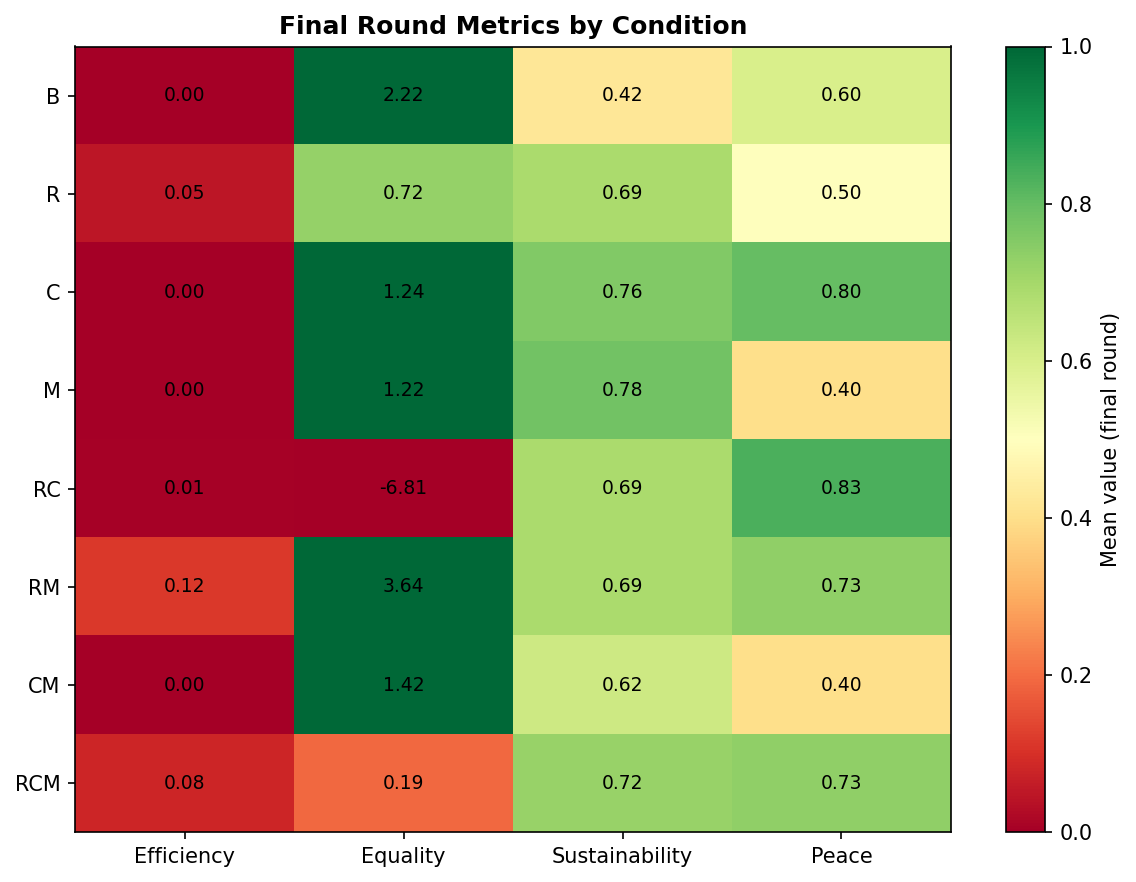
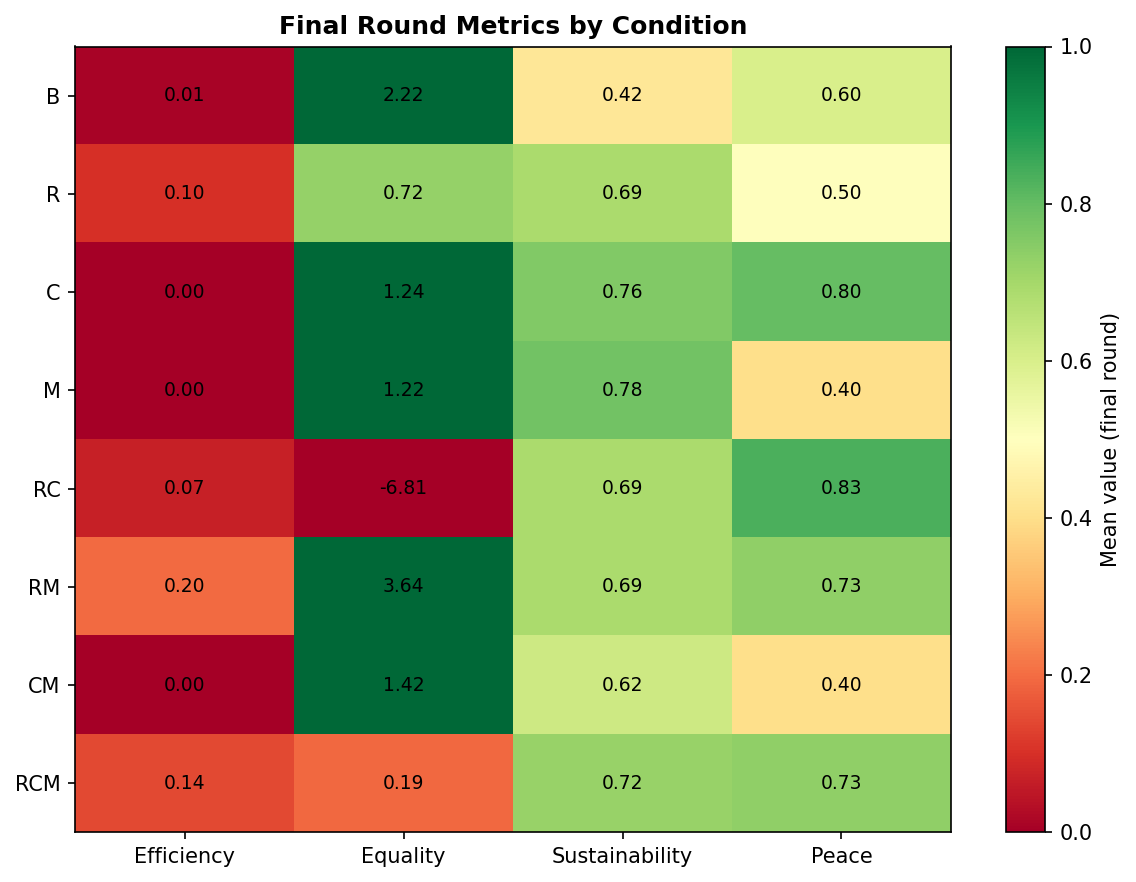
new plots

Changed region(s): [[0.0616, 0.4898, 0.2773, 0.7347], [0.0616, 0.8265, 0.2773, 0.949], [0.0616, 0.1531, 0.2773, 0.2755]]

diff --git a/simulation/data/analyst_report_20260518_083524.md b/simulation/data/analyst_report_20260518_083524.md
@@ -1,0 +1,272 @@
+# Analyst Report
+
+Generated: 2026-05-18T08:35:24.900214
+
+## Findings Report: Formal Mechanisms for Market Stability in Multi-Agent Trading
+
+### Overview of stability criterion
+**Market stability** is defined as: **all four social metrics (Efficiency, Equality, Sustainability, Peace) > 0.5 by end of simulation**.
+
+Across **all 8 conditions**, the simulation reports:
+- **stable_runs = 0 for every condition**
+- **stability_rate = 0.0 for every condition**
+- Therefore, **no condition achieved full market stability** under the stated end-of-simulation threshold.
+
+---
+
+## 1) Which conditions achieved market stability?
+**None.** Every condition has:
+- **stability_rate = 0.0** and **stable_runs = 0** (out of 5 runs).
+
+### End-of-simulation metric values (final_mean) by condition
+Below are the **final_mean** values for the four social metrics; each condition fails at least one threshold:
+
+- **B (baseline)**:  
+  - Efficiency **0.0111** (≪0.5)  
+  - Equality **2.2222** (>0.5)  
+  - Sustainability **0.4222** (≪0.5)  
+  - Peace **0.6** (>0.5)
+
+- **R (+Reputation)**:  
+  - Efficiency **0.0978** (≪0.5)  
+  - Equality **0.7233** (>0.5)  
+  - Sustainability **0.6889** (>0.5)  
+  - Peace **0.5** (≈ threshold; reported as 0.5, not clearly >0.5)
+
+- **C (+Contracting)**:  
+  - Efficiency **0.0** (≪0.5)  
+  - Equality **1.2444** (>0.5)  
+  - Sustainability **0.7556** (>0.5)  
+  - Peace **0.8** (>0.5)
+
+- **M (+Mediation)**:  
+  - Efficiency **0.0** (≪0.5)  
+  - Equality **1.2222** (>0.5)  
+  - Sustainability **0.7778** (>0.5)  
+  - Peace **0.4** (≪0.5)
+
+- **RC (+Reputation + Contracting)**:  
+  - Efficiency **0.0667** (≪0.5)  
+  - Equality **-6.8144** (≪0.5; extreme)  
+  - Sustainability **0.6889** (>0.5)  
+  - Peace **0.8333** (>0.5)
+
+- **RM (+Reputation + Mediation)**:  
+  - Efficiency **0.1956** (≪0.5)  
+  - Equality **3.637** (>0.5)  
+  - Sustainability **0.6889** (>0.5)  
+  - Peace **0.7333** (>0.5)
+
+- **CM (+Contracting + Mediation)**:  
+  - Efficiency **0.0** (≪0.5)  
+  - Equality **1.4173** (>0.5)  
+  - Sustainability **0.6222** (>0.5)  
+  - Peace **0.4** (≪0.5)
+
+- **RCM (+Reputation + Contracting + Mediation)**:  
+  - Efficiency **0.1422** (≪0.5)  
+  - Equality **0.1948** (≪0.5)  
+  - Sustainability **0.7222** (>0.5)  
+  - Peace **0.7333** (>0.5)
+
+**Key takeaway:** The **dominant failure mode is Efficiency**, which remains far below 0.5 in every condition (final_mean ranges roughly **0.0 to 0.1956**). Some conditions also fail Peace (M, CM) or Equality (RC, RCM).
+
+---
+
+## 2) Which single mechanism was most effective? (R vs C vs M vs baseline B)
+
+Because **no condition meets full stability**, “most effective” must be interpreted as **best improvement on the metrics**, especially those relevant to stability.
+
+### Efficiency (primary bottleneck)
+- **Baseline B** final_mean Efficiency: **0.0111**
+- **R**: **0.0978** (best among singles; +0.0867 vs B)
+- **C**: **0.0**
+- **M**: **0.0**
+
+**Conclusion (single mechanism):** **Reputation (R)** is the most effective single mechanism for **Efficiency**.
+
+### Peace (trade completion without defection)
+- **B** final_mean Peace: **0.6**
+- **R**: **0.5**
+- **C**: **0.8**
+- **M**: **0.4**
+
+**Conclusion (single mechanism):** **Contracting (C)** is best for **Peace**.
+
+### Sustainability
+- **B**: **0.4222**
+- **R**: **0.6889**
+- **C**: **0.7556**
+- **M**: **0.7778**
+
+**Conclusion (single mechanism):** **M** slightly best, but **R and C also strongly improve Sustainability**.
+
+### Equality
+- **B**: **2.2222**
+- **R**: **0.7233**
+- **C**: **1.2444**
+- **M**: **1.2222**
+
+Equality is not consistently “better” than baseline; baseline is already high (>0.5). However, **RC and RCM produce extreme/low equality**, suggesting interactions can destabilize distribution.
+
+---
+
+## 3) Do mechanism combinations outperform single mechanisms?
+
+### Efficiency comparison (combinations vs best single)
+Best single efficiency (final_mean): **R = 0.0978**
+
+Combinations final_mean Efficiency:
+- **RC**: **0.0667** (worse than R)
+- **RM**: **0.1956** (**better than R**)
+- **CM**: **0.0** (worse)
+- **RCM**: **0.1422** (better than R, worse than RM)
+
+**Conclusion:** **RM** is the best-performing combination on **Efficiency** (final_mean **0.1956**), but still far below 0.5.
+
+### Peace comparison
+Single best Peace: **C = 0.8**
+
+Combinations final_mean Peace:
+- **RC**: **0.8333** (slightly better than C)
+- **RM**: **0.7333**
+- **CM**: **0.4** (worse)
+- **RCM**: **0.7333**
+
+**Conclusion:** **RC** is best for Peace among combinations.
+
+### Equality comparison (important anomaly)
+- **RC** final_mean Equality: **-6.8144** (catastrophic)
+- **RCM** final_mean Equality: **0.1948** (fails threshold)
+- **RM** final_mean Equality: **3.637** (very high)
+- **CM** final_mean Equality: **1.4173** (ok)
+
+**Conclusion:** combinations can strongly affect equality; **RC is a major outlier**.
+
+### Sustainability comparison
+All combinations have Sustainability final_mean mostly >0.62:
+- **RC**: **0.6889**
+- **RM**: **0.6889**
+- **CM**: **0.6222**
+- **RCM**: **0.7222**
+
+So combinations generally preserve/improve Sustainability, but **Efficiency and/or Equality/Peace still prevent full stability**.
+
+---
+
+## 4) What is the minimum sufficient mechanism set?
+**No sufficient set exists** under the current data and stability definition.
+
+- Even the best combination on Efficiency (**RM = 0.1956**) does not reach **Efficiency > 0.5**.
+- Therefore, **no single mechanism or combination tested is sufficient** to satisfy **all four** thresholds simultaneously.
+
+**Data limitation:** With only **5 runs per condition** and **no stable runs**, it’s possible the system would require additional mechanisms, parameter tuning, or a different threshold/metric definition. But based strictly on the provided summary, **minimum sufficient set = none**.
+
+---
+
+## 5) Intermediate variable analysis (mechanism pathways)
+
+### A) Did mechanisms work by reducing defection (Peace up)?
+Peace final_mean indicates defection reduction (higher peace = fewer defections/failed trades):
+
+- **C**: Peace **0.8** (high) and Sustainability **0.7556**, but Efficiency **0.0** → stability fails due to Efficiency.
+- **RC**: Peace **0.8333** (high) but Equality **-6.8144** → stability fails due to Equality.
+- **M**: Peace **0.4** (low) and Efficiency **0.0** → stability fails due to both Peace and Efficiency.
+- **RM**: Peace **0.7333** (high) and Sustainability **0.6889**, but Efficiency **0.1956** → stability fails due to Efficiency.
+
+**Interpretation:** Mechanisms often improve **Peace** and **Sustainability**, but **do not deliver the required Efficiency**. So the dominant pathway to stability is **not achieved**—even when Peace improves.
+
+### B) Did mechanisms work via improved information propagation (whistleblowing rate / warning accuracy)?
+Key issue: **warning_accuracy is 0.0 for every condition**, including combinations:
+- **warning_accuracy mean = 0.0, final_mean = 0.0** for all B, R, C, M, RC, RM, CM, RCM.
+
+This implies either:
+- warnings are never accurate in the simulation, or
+- the metric is not being computed correctly, or
+- warnings are not actually issued in a way that counts as “accurate”.
+
+So we can only partially use the intermediate variables:
+- **whistleblowing_rate** does change across conditions
+- **false_accusation_rate** also changes
+
+#### Whistleblowing rate patterns
+- Lowest: **RCM 0.0414**, **RC 0.0438**, **RM 0.0881**, **R 0.0975**
+- Highest: **M 0.348**, **CM 0.2857**, **C 0.2666**, **B 1.2753** (baseline is highest)
+
+**Notable anomaly:** Baseline **B** has **very high whistleblowing_rate (mean 1.2753)** but still has **stability_rate 0** and **Efficiency ~0.0111**. This suggests whistleblowing alone (especially with zero warning accuracy) does not stabilize markets.
+
+#### False accusation rate patterns
+- **R**: false_accusation_rate mean **0.12**
+- **RC**: **0.0733**
+- **RM**: **0.0** (both mean and final are 0.0)
+- **C**: **0.5167**
+- **M**: **0.3867**
+- **CM**: **0.1267**
+- **RCM**: **0.0867**
+- **B**: **0.7638**
+
+**Interpretation:** Lower false accusation rates (e.g., **RM = 0.0**) coincide with relatively good Peace (**RM final Peace 0.7333**) and Sustainability (**0.6889**), but again **Efficiency remains too low**.
+
+### Overall pathway conclusion
+- Evidence supports that mechanisms can affect **Peace** and **false accusations**.
+- However, **warning accuracy is uniformly zero**, preventing a clear “information quality” mechanism.
+- The **largest remaining gap is Efficiency**, which does not rise to the stability threshold in any condition.
+
+---
+
+## 6) Unexpected patterns or anomalies
+
+1. **No stable runs in any condition (0/5 each).**  
+   This is unusual if the mechanisms are intended to enable full stability. It suggests either the threshold is too strict, the environment is too adversarial, or the mechanisms do not sufficiently improve Efficiency.
+
+2. **warning_accuracy = 0.0 for all conditions.**  
+   This eliminates the intended “improved information propagation” channel from explanatory power. It also raises a measurement/implementation concern.
+
+3. **Extreme Equality failure in RC:**  
+   - **RC final_mean Equality = -6.8144** (and mean Equality std is huge: std **5.7895**).  
+   This suggests instability in how contracting + reputation interacts with utility distribution (possibly due to punitive dynamics, misallocation, or metric artifacts).
+
+4. **Baseline B has the highest whistleblowing rate (mean 1.2753)** but still fails stability.  
+   This suggests whistleblowing is either noisy, not actionable, or not tied to accurate warnings (consistent with warning_accuracy = 0).
+
+5. **Efficiency collapses to 0.0 in C, M, CM (final_mean).**  
+   Contracting and mediation appear to strongly reduce realized gains from trade, even when Peace/Sustainability are high.
+
+---
+
+## 7) Implications for the research question
+
+**Research question:** *Which formal mechanism (or combination) allows self-interested agents to maintain market stability (all four metrics > 0.5)?*
+
+### What the data supports
+- **Reputation (R)** is the best **single** mechanism for **Efficiency** (final_mean **0.0978** vs B **0.0111**).
+- **Contracting (C)** is best for **Peace** among singles (final_mean **0.8**).
+- **RM** is the best **combination** for **Efficiency** (final_mean **0.1956**) and also has strong Peace (**0.7333**) and Sustainability (**0.6889**).
+
+### What the data does *not* support
+- **No mechanism combination reaches Efficiency > 0.5**, so **none achieve full stability**.
+- Therefore, under the current simulation design and metrics, **formal mechanisms tested are insufficient** to guarantee end-of-simulation market stability for all four dimensions simultaneously.
+
+### Practical implication
+To answer the research question positively, the simulation likely needs:
+- mechanisms that directly increase **realized gains from trade** (Efficiency), not just defection avoidance or sustainability maintenance, and/or
+- a fix or redesign of the warning system so that **warning_accuracy** is non-zero and can mediate behavior.
+
+---
+
+### Summary Table (end-of-simulation final_mean; stability requires all > 0.5)
+
+| Condition | Eff. | Eq. | Sus. | Peace | Stability |
+|---|---:|---:|---:|---:|---|
+| B | 0.0111 | 2.2222 | 0.4222 | 0.6 | 0/5 |
+| R | 0.0978 | 0.7233 | 0.6889 | 0.5 | 0/5 |
+| C | 0.0 | 1.2444 | 0.7556 | 0.8 | 0/5 |
+| M | 0.0 | 1.2222 | 0.7778 | 0.4 | 0/5 |
+| RC | 0.0667 | -6.8144 | 0.6889 | 0.8333 | 0/5 |
+| RM | 0.1956 | 3.637 | 0.6889 | 0.7333 | 0/5 |
+| CM | 0.0 | 1.4173 | 0.6222 | 0.4 | 0/5 |
+| RCM | 0.1422 | 0.1948 | 0.7222 | 0.7333 | 0/5 |
+
+---
+
+If you want, I can also compute a “near-stability” score (e.g., count of metrics above 0.5 per condition using final_mean) to identify which mechanisms come closest, despite none meeting the strict stability definition.
